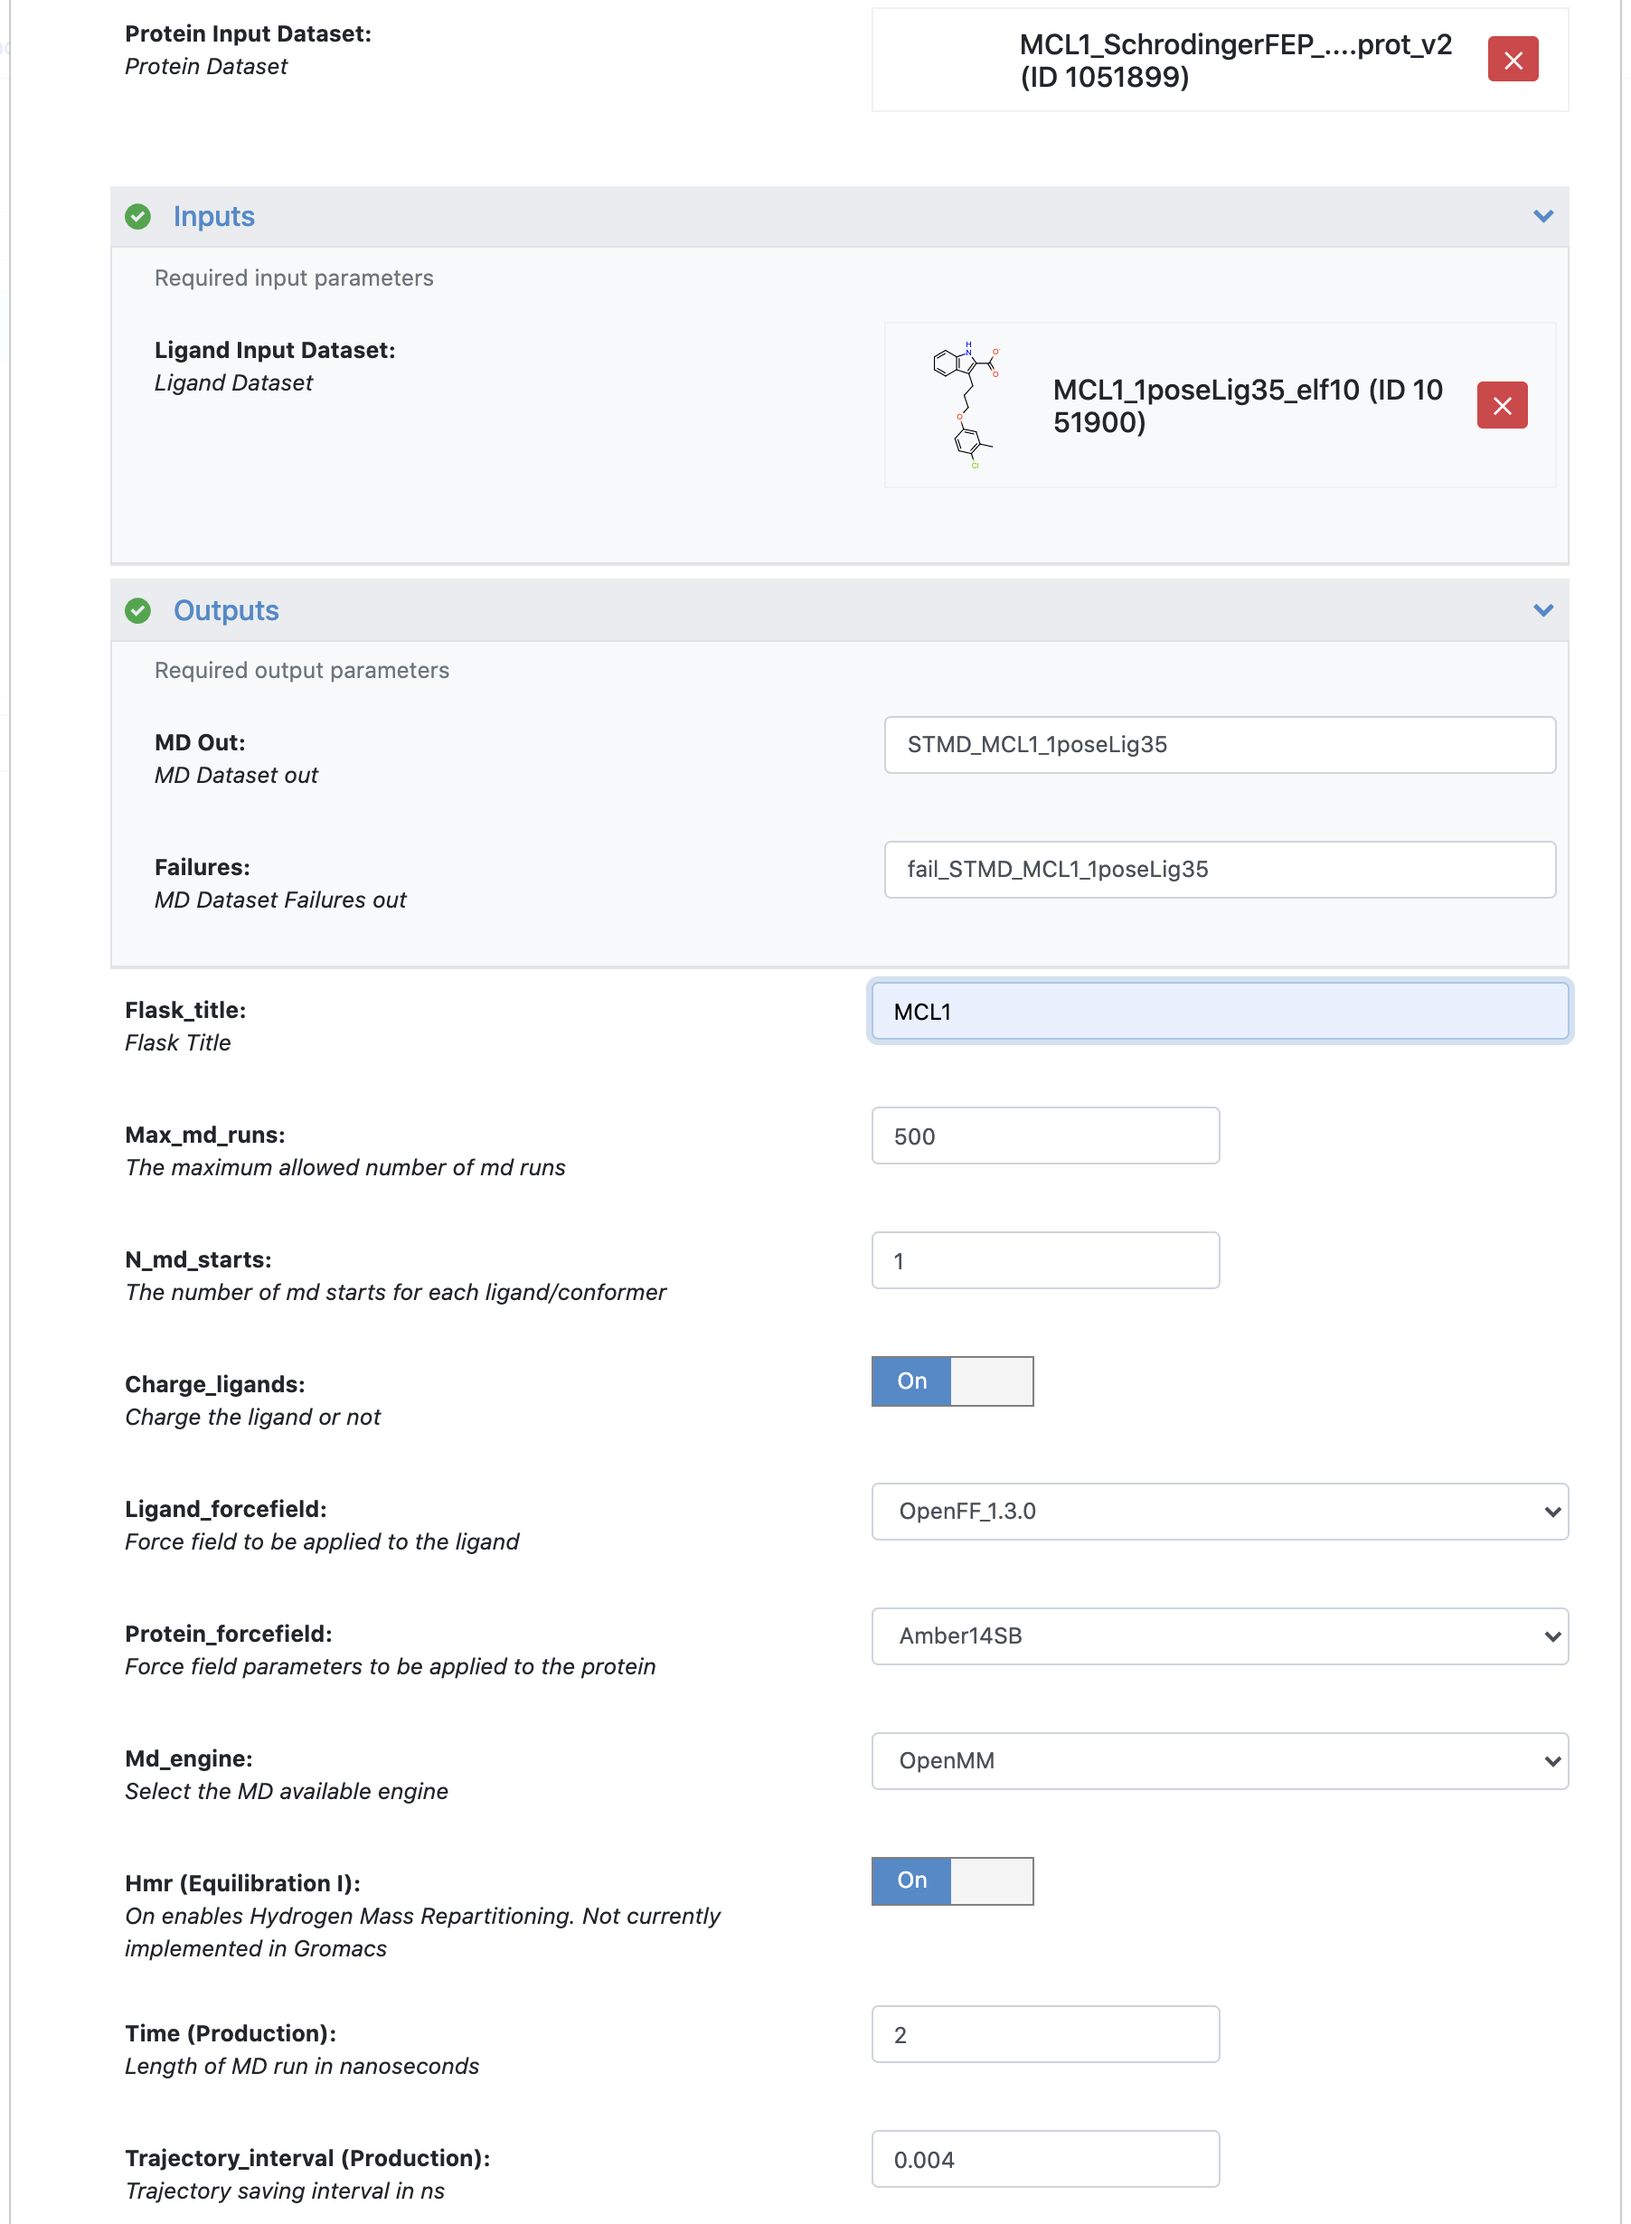
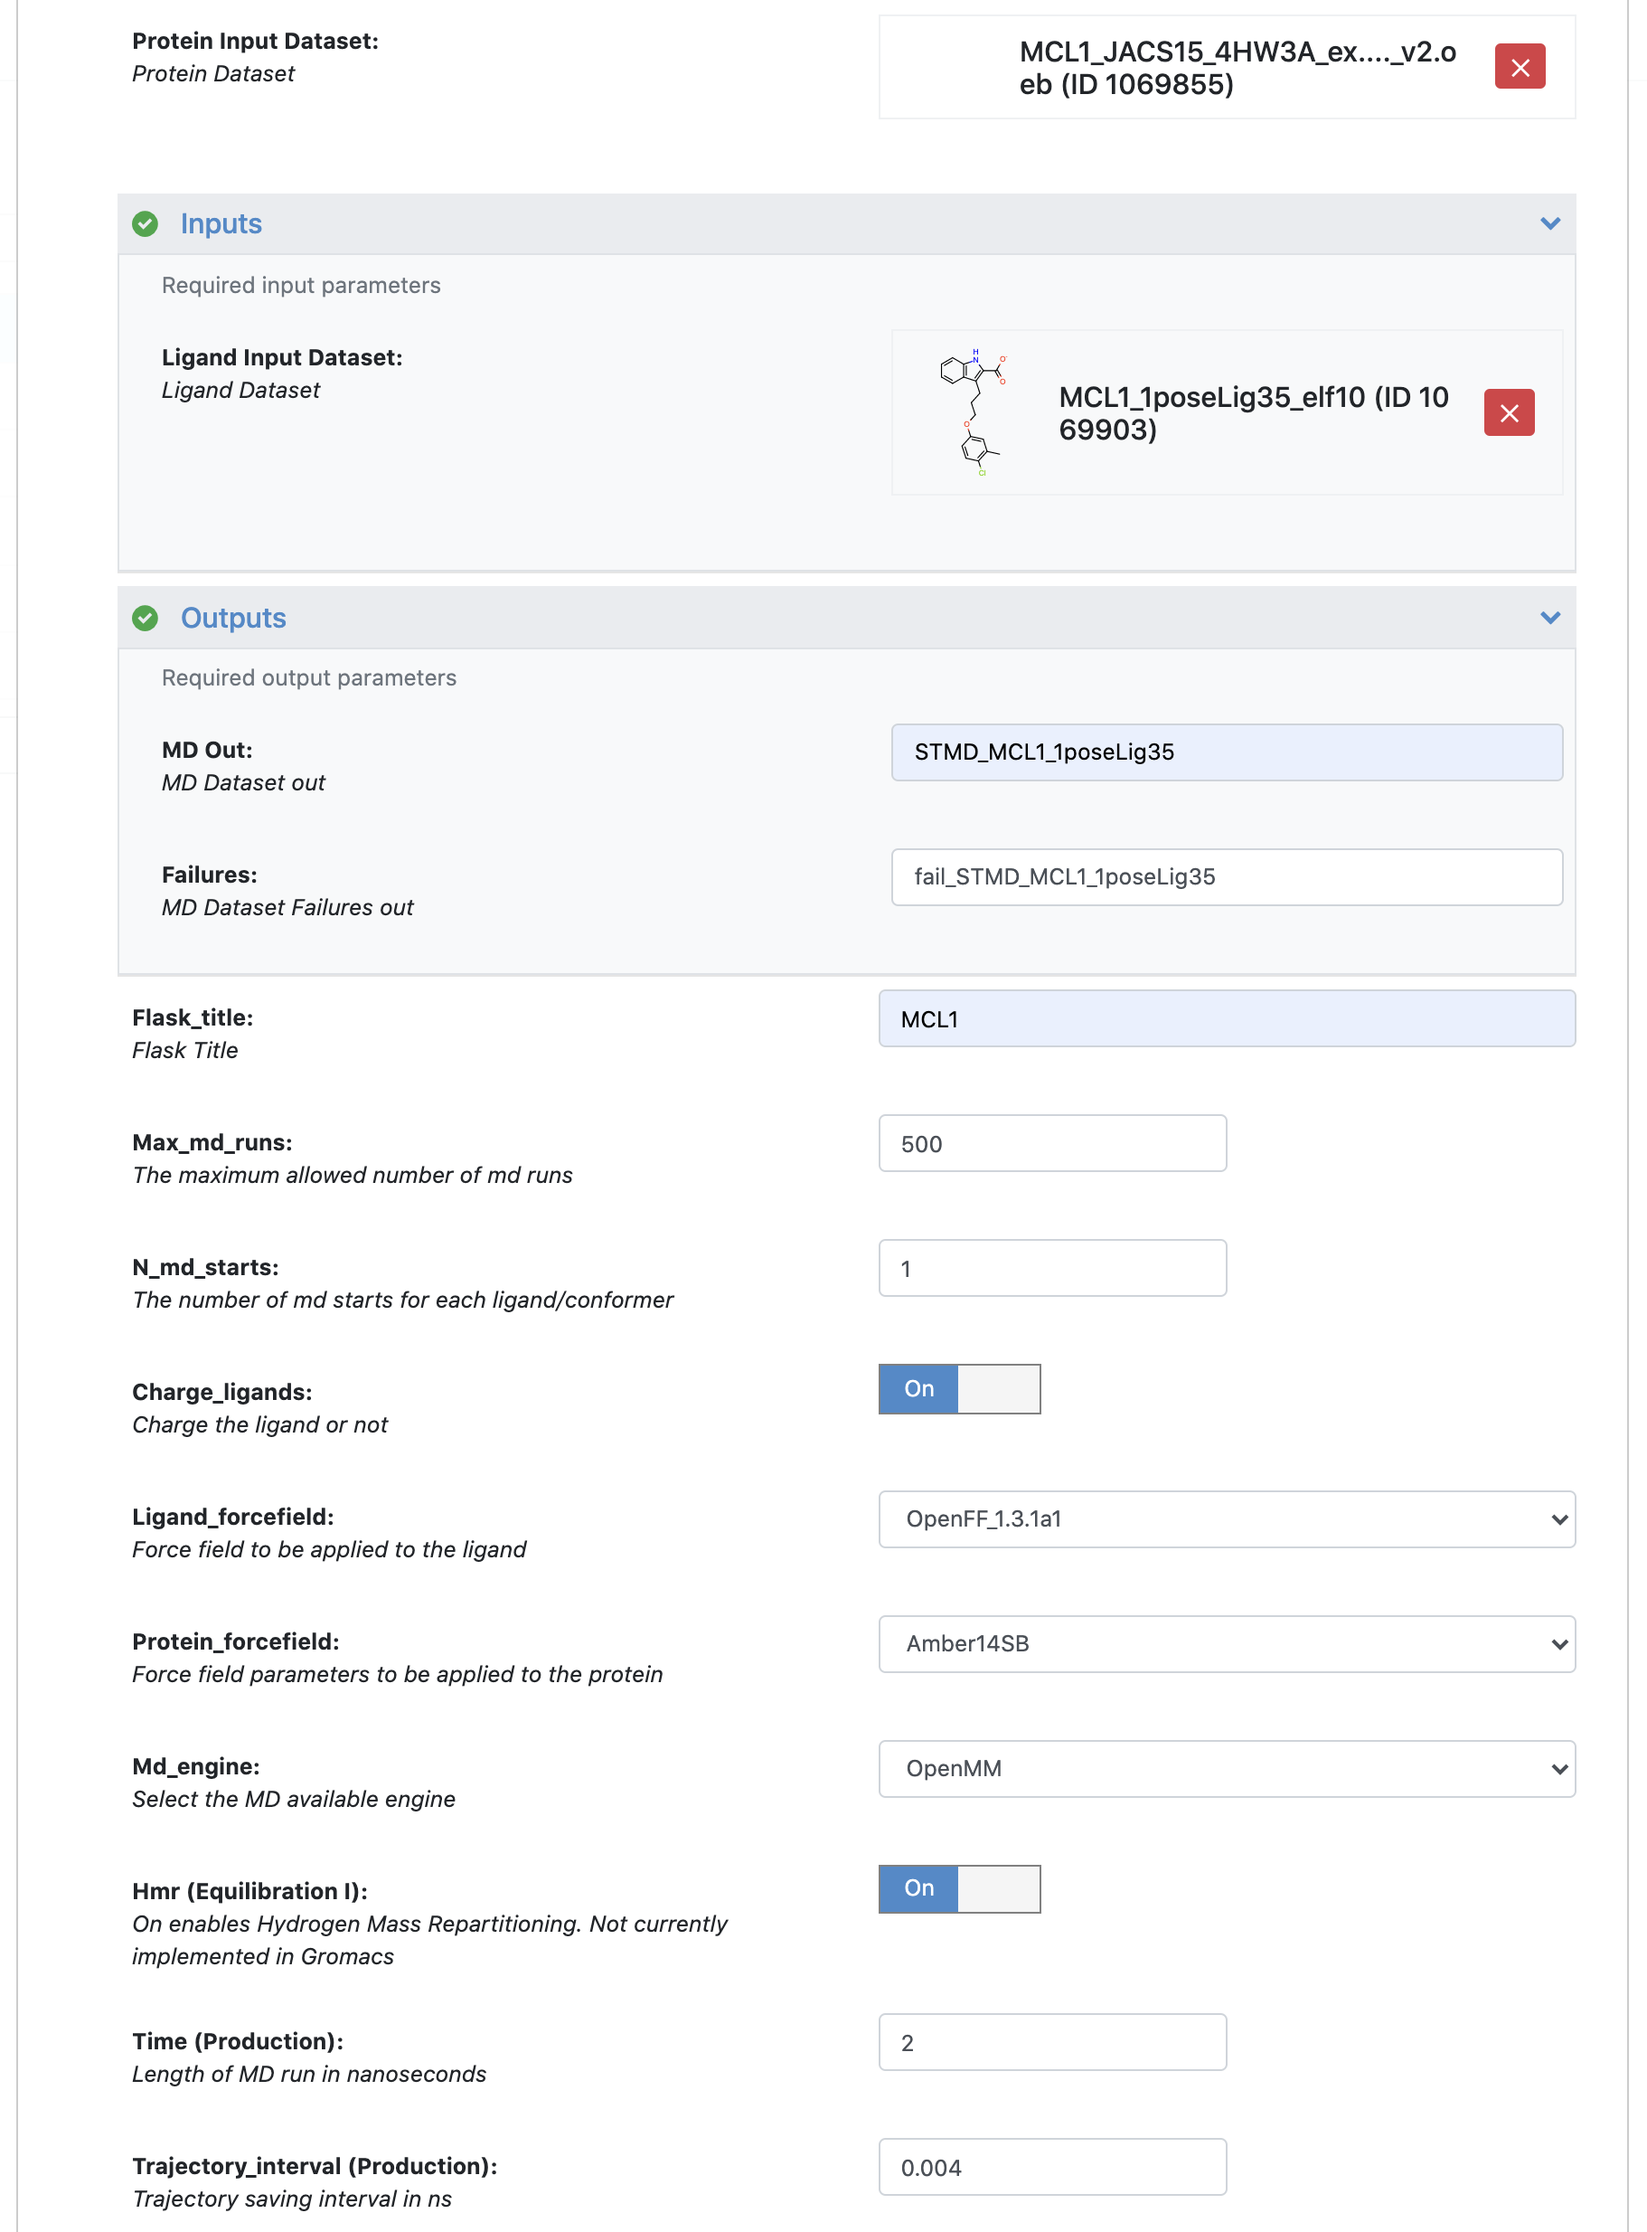
In addition to merge for 4.0.1, made docs maods and updated default OpenFF to Openff 1.3.1a1.

diff --git a/MDOrion/SubFloes/SubfloeFunctions.py b/MDOrion/SubFloes/SubfloeFunctions.py
@@ -236,7 +236,7 @@ def setup_MD_startup(input_floe, input_cube, fail_cube, options):
     # Force Field Application
     ff = ParallelForceFieldCube("ForceField", title="Apply Force Field")
     ff.promote_parameter('protein_forcefield', promoted_name='protein_ff', default='Amber14SB')
-    ff.promote_parameter('ligand_forcefield', promoted_name='ligand_ff', default='OpenFF_1.3.0')
+    ff.promote_parameter('ligand_forcefield', promoted_name='ligand_ff', default='OpenFF_1.3.1a1')
 
     # Production run
     prod = ParallelMDNptCube("Production", title="Production")
@@ -354,7 +354,7 @@ def setup_MD_startup(input_floe, input_cube, fail_cube, options):
 def setup_MDsmallmol_startup(input_floe, input_cube, fail_cube, options):
     # Force Field Application
     ff_small = ParallelForceFieldCube("ForceField", title="Apply Force Field")
-    ff_small.promote_parameter('ligand_forcefield', promoted_name='ligand_ff', default='OpenFF_1.3.0')
+    ff_small.promote_parameter('ligand_forcefield', promoted_name='ligand_ff', default='OpenFF_1.3.1a1')
 
     # Production run
     prod_small = ParallelMDNptCube("Production Unbound State", title="Production Unbound State")

diff --git a/docs/source/tutorials.rst b/docs/source/tutorials.rst
@@ -109,7 +109,7 @@ protein structure and dynamics over the course of the MD.
 We **strongly recommend** using *Spruce* for protein preparation.
 The protein input dataset used in this tutorial is:
 
-    * :download:`MCL1_SchrodingerFEP_4HW3A_extprot_v2.oeb.gz <files/MCL1_SchrodingerFEP_4HW3A_extprot_v2.oeb.gz>`
+    * :download:`MCL1_JACS15_4HW3A_extprot_v2.oeb.gz <files/MCL1_JACS15_4HW3A_extprot_v2.oeb.gz>`
 
 
 .. warning::
@@ -252,7 +252,7 @@ of these shows a radial bar graph of the occupancy of the torsion on
 the right-hand side. Selecting `B-factor` yields a depiction of the
 calculated B-factors for the selected cluster as in the parent tile,
 but additionally shows the calculated B-factor for each active site
-amino acid close to the ligand. To the right of the graphic is
+amino acid close to the ligand. To the left of the graphic is
 information about the clustering of the ligand trajectory, including
 a table giving the ensemble average MMPBSA energy and BintScore
 (each with standard error)
